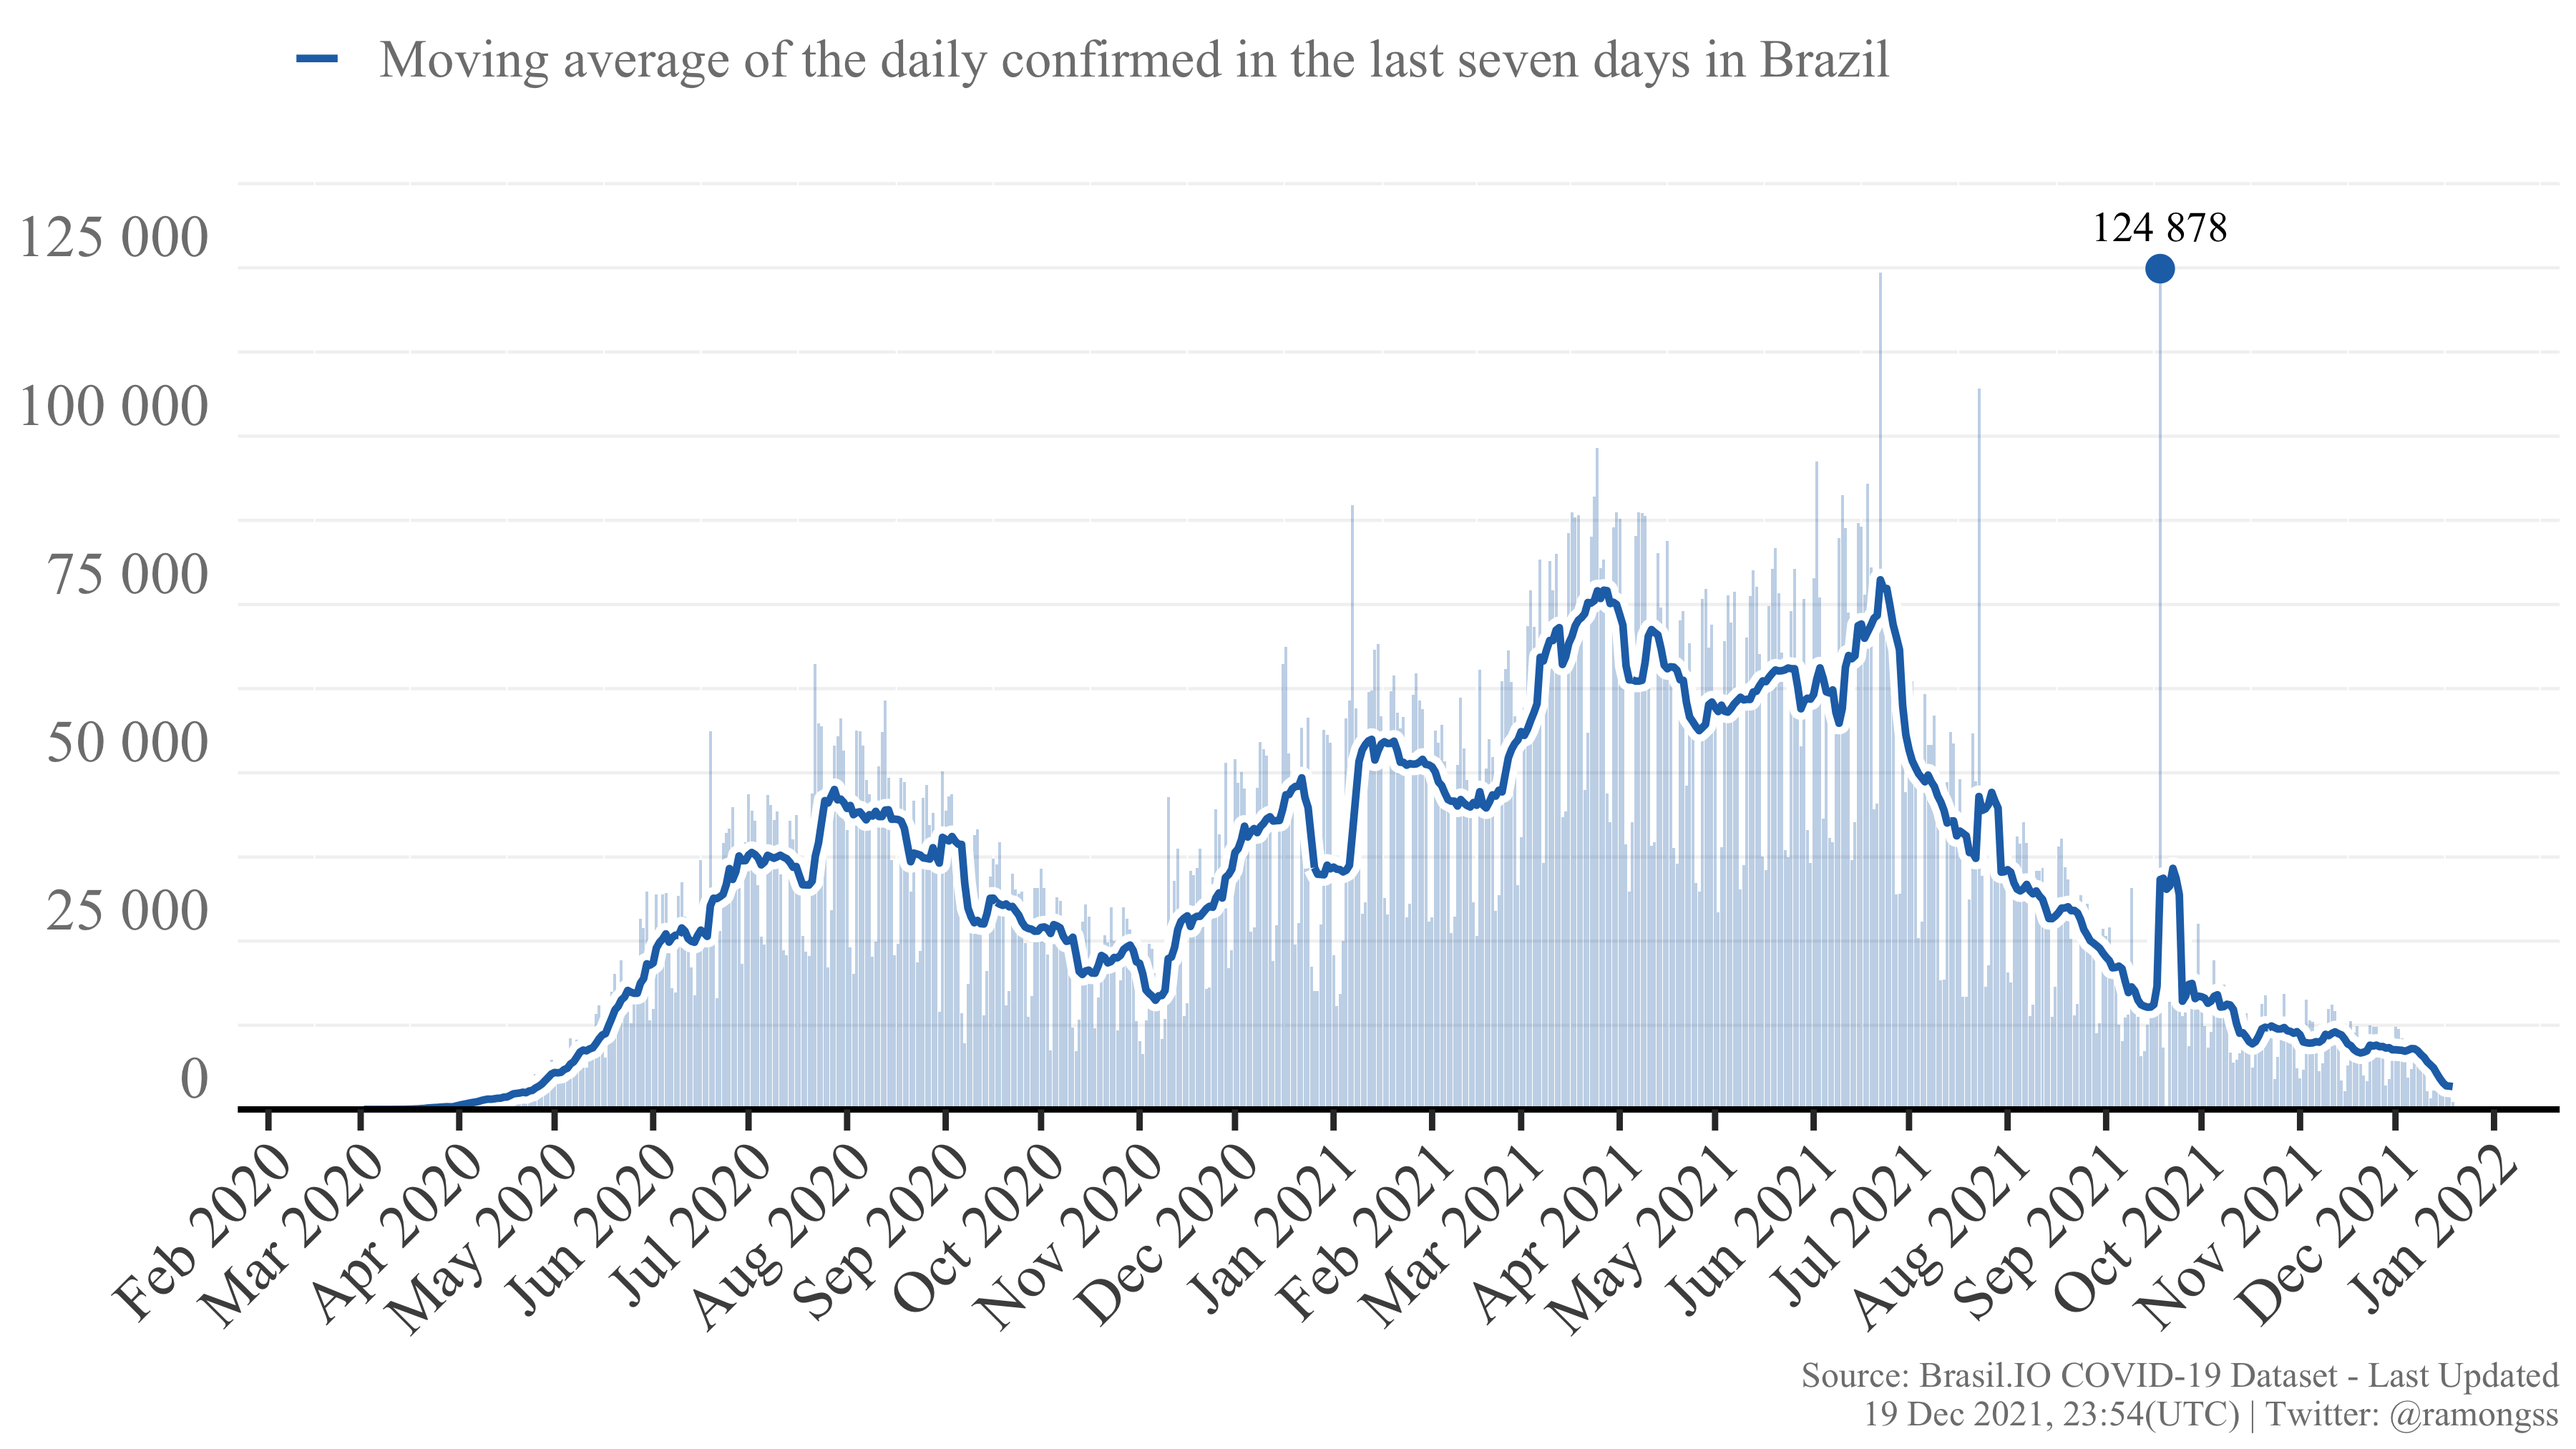
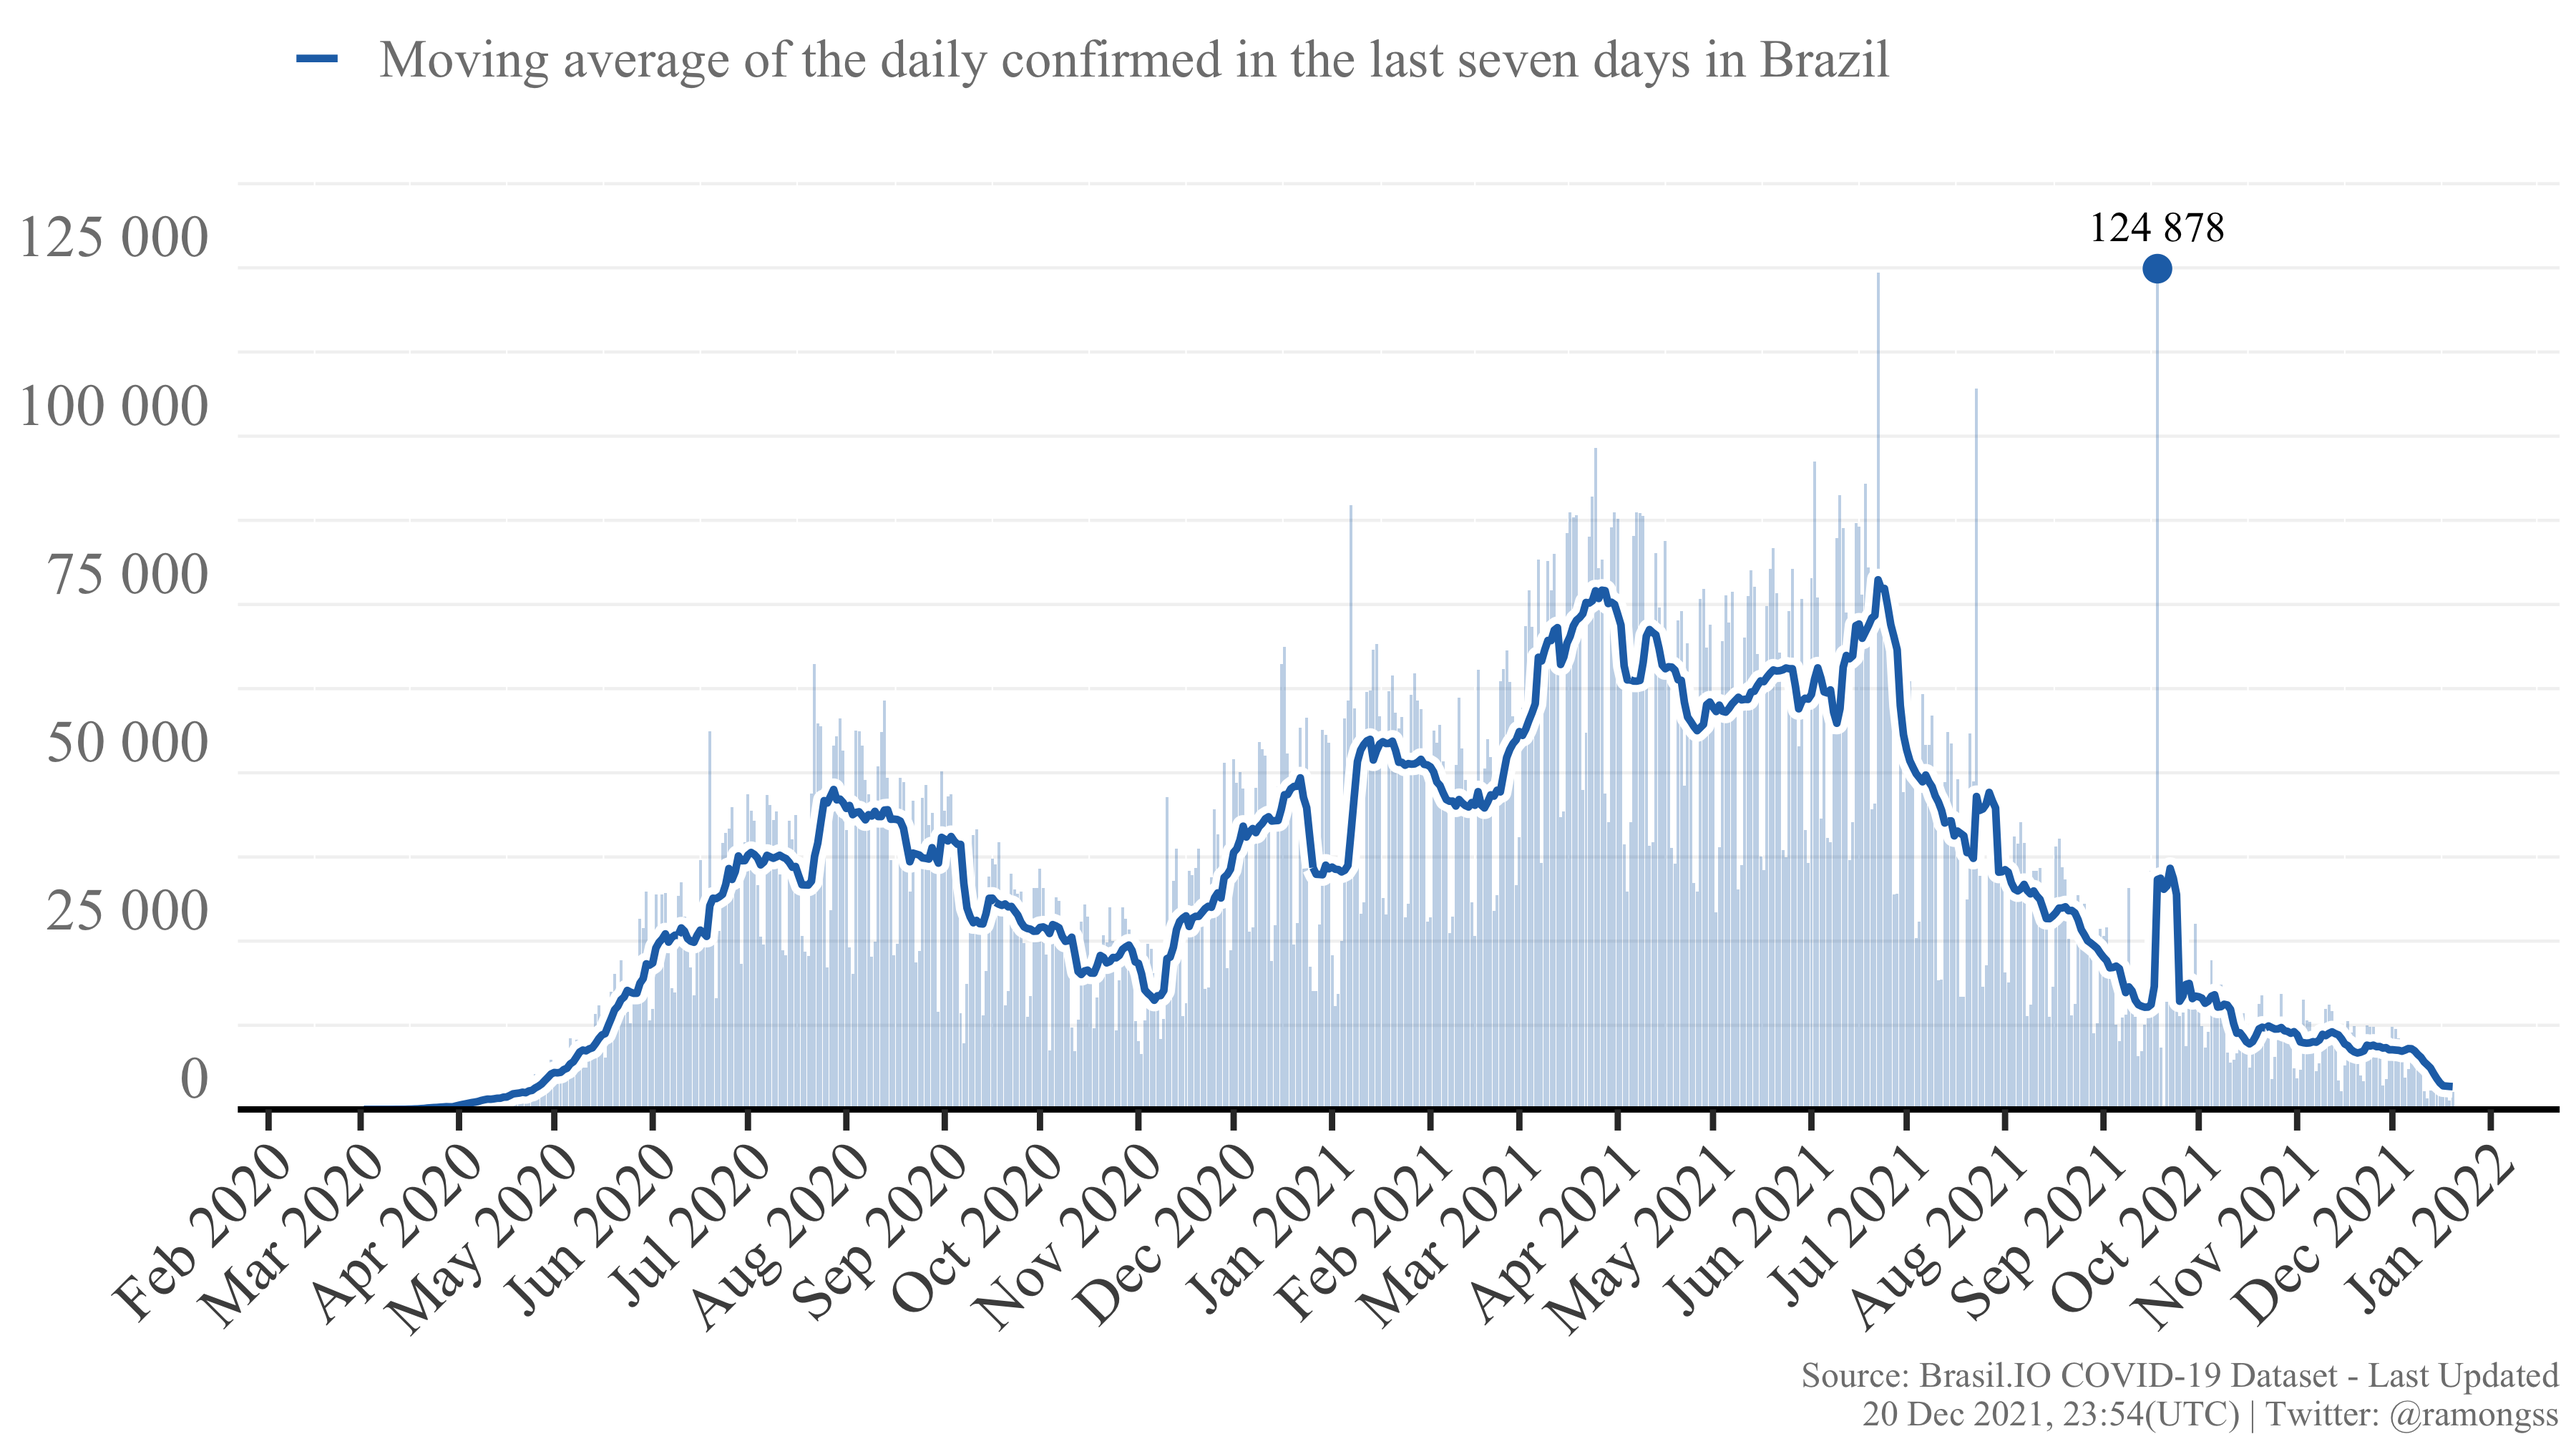
Re-build README.Rmd

diff --git a/README.md b/README.md
@@ -27,8 +27,8 @@ download_brasilio_table <- function(dataset = "covid19", table_name){
 
 ## COVID-19 Confirmed cases
 
-Currently, Brazil has a total of **22,217,270** confirmed cases at **19
-Dec, 2021**, with **1,158** new confirmed cases. The daily maximum
+Currently, Brazil has a total of **22,220,001** confirmed cases at **20
+Dec, 2021**, with **2,581** new confirmed cases. The daily maximum
 incidence was **124,878** confirmed cases at **18 Sep, 2021**. Here
 follows the Figure showing the confirmed case incidence as the bars, and
 the line as the moving average of the last 7 days.
@@ -37,8 +37,8 @@ the line as the moving average of the last 7 days.
 
 ## COVID-19 Deaths
 
-Currently, Brazil has a total of **618,057** deaths at **19 Dec, 2021**,
-with **46** new deaths. The daily maximum deaths incidence was **4,148**
+Currently, Brazil has a total of **618,133** deaths at **20 Dec, 2021**,
+with **73** new deaths. The daily maximum deaths incidence was **4,148**
 deaths at **08 Apr, 2021**. Here follows the Figure showing the deaths
 incidence as the bars, and the line as the moving average of the last 7
 days.
@@ -49,4 +49,4 @@ days.
 
 This page is daily updated automatically using Github Actions.
 
-*Last update: 19 Dec 2021, 23:54 (UTC).*
+*Last update: 20 Dec 2021, 23:54 (UTC).*
